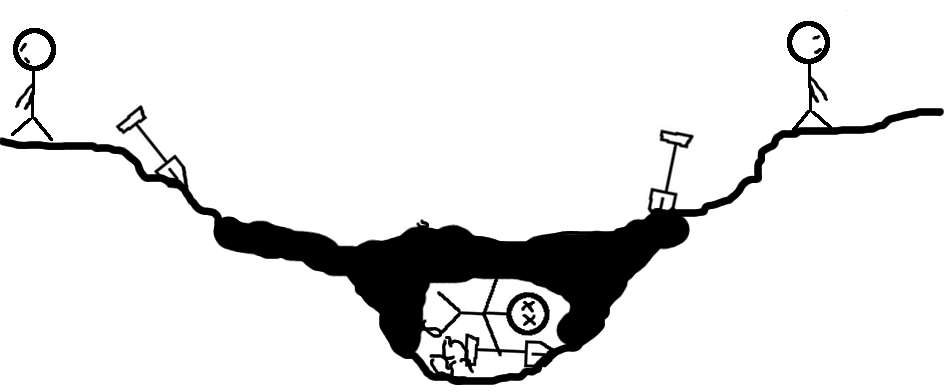
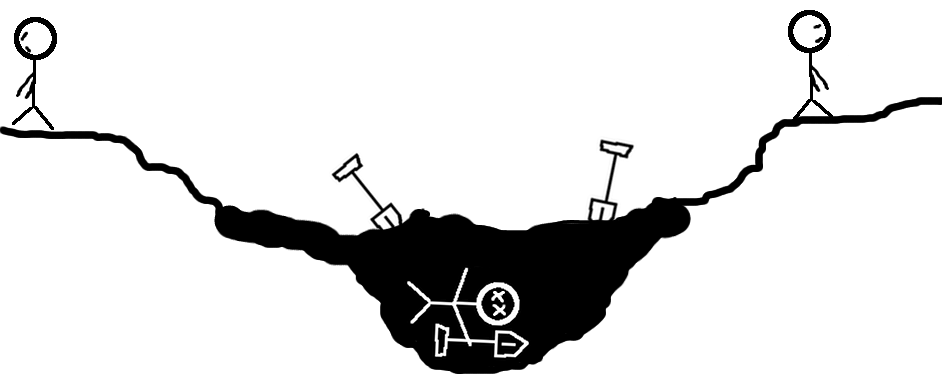
x

diff --git a/post/On-Troll-Hugging-Hole-Digging-and-Improving-Open-Source-Communities.md b/post/On-Troll-Hugging-Hole-Digging-and-Improving-Open-Source-Communities.md
@@ -1,7 +1,6 @@
 %% title: On Troll Hugging, Hole Digging, and Improving Open Source Communities
 %% date: 2017-08-31
 %% desc: How to be better
-%% draft: true
 
 While observing a recent split in a large open source community, I did some self-reflection and thought about the state of the Rakudo community that I am a part of. It involved learning of its huggable past; thinking of its undulating present; as well as looking for its brighter future.
 
@@ -14,9 +13,9 @@ A lot of organizational metaphors involve the act of climbing. You start at the 
 <img class="img-thumbnail img-responsive center-block"
     src="/assets/pics/hug-pics/climbing-stairs.jpg" alt="">
 
-The people higher up can pull others up, but the problem is they can also push them down, prevent them from climbing, or even accidentally kick down some dirt in the face. As we get higher and higher, the tip of the hill we're climbing gets narrower and narrower, accommodating fewer and fewer people, until progress stops and everyone freezes, waiting for someone higher up to disappear and free up the space for someone lower down to move up to.
+The people higher up can pull others up to their level, but the problem is they can also push them down, prevent them from climbing, or even accidentally kick down some dirt in the face. As we get higher and higher, the tip of the hill we're climbing gets narrower and narrower, accommodating fewer and fewer people, until progress stops and everyone freezes, waiting for someone higher up to disappear and free up the space for someone lower down to move up to.
 
-A more useful metaphor I think is directly the opposite of a dirt hill: a dirt hole. People dig it.
+A more useful metaphor I think is directly the opposite of a dirt hill: a dirt *hole.* People dig it.
 
 When you are just starting a project, you're alone. It's just you and a shovel. You dig a few feet down and someone comes to the edge of your hole and looks down on you. You are vulnerable. You offer them a shovel and now there's more than one person digging the hole.
 
@@ -69,9 +68,9 @@ I thought up some Tips for how to improve things; but Tips is too cliché a name
 
 A person comes to the edge of the hole you're digging and says: "What the heck are you doing over there?" You explain a few things, the person nods agreeably, wishes you good luck, and continues on their merry ways. It was an amicable interraction, but could it be better?
 
-Instead of walking away, the person can instead help the hole grow larger, by picking a site on the edge of it and starting to dig their own patch. On occasion, some passerby will realize how awesome your hole digging idea is and join you out of their own initiative, but you can greatly improve the chances of people joining by gifting the curious passerby a shovel and actively asking them to join you. Some won't be able to, but it's a lot easier to start digging if you already have a shovel in hand.
+Instead of walking away, the person can help the hole grow larger, by picking a site on the edge of it and starting to dig their own patch. On occasion, some passerby will realize how awesome your hole digging idea is and join you on their own initiative, but you can greatly improve the chances of people joining by gifting the curious passerby a shovel and actively asking them to help you. Some won't be able to, but it's a lot easier to start digging if you already have a shovel in hand.
 
-If someone on the help channel is asking a question, it's possible your project's learning resources could be improved. And best of all, now that you answered the question, that person is most qualified to improve the learning resources in this situation: they both now know the answer and still remember their thinking processes that led to them asking their question.
+If someone on the help channel is asking a question, it's possible your project's learning resources could be improved. Answer the question and then ask that very same person to help improve the learning resources. Now that you answered the question, that person is most qualified to improve the learning resources in this situation: they both now know the answer and still remember their thinking processes that led to them asking their question and the eventual understanding of the answer.
 
 <img class="img-thumbnail img-responsive center-block"
     src="/assets/pics/hug-pics/gift-a-shovel.png" alt="">
@@ -90,7 +89,7 @@ I recall the most infuriating scene in the film, when the old timer workers came
 
 I was hoping Temple would get back at them: get them fired, insult them, anything really! They're clearly too damn dumb to realize just how much better Temple's equipment is and they shouldn't be allowed anywhere near cattle. Am I right? Not really.
 
-Both Temple and the other workers had the same goal: get the cattle washed, dried, and chopped up into delicious burgers. Without autism, however, the workers didn't have a clue why Temple's design was superior. And lacking that understanding, they went back to what they knew does the job. Temple never got back at the workers, but I've seen others (and myself) get back at the "offenders" in very similar circumstances.
+Both Temple and the other workers had the same goal: get the cattle washed, dried, and chopped up into delicious steaks and burgers. Without autism, however, the workers didn't have a clue why Temple's design was superior. And lacking that understanding, they went back to what they knew does the job. Temple never got back at the workers, but I've seen others (and myself) get back at the "offenders" in very similar circumstances.
 
 When Rakudo implemented atomic operators that incorporate emoji atom symbol, over 220 comments were made about them on Reddit. The overall theme was: *how the hell am I supposed to type that and have Rakudo people lost their minds, using an emoji as an operator?* These comments are from programmers who've been using ASCII symbols in their code for decades. Just like Temple's cattle workers, programmers who never learned how to easily type fancy Unicode characters could, understandably, be baffled that an emoji could ever be efficent to use.
 
@@ -150,7 +149,7 @@ The aforementioned Professor Temple Grandin had another useful contribution to h
 <img class="img-thumbnail img-responsive center-block"
     src="/assets/pics/hug-pics/hugging-machine.jpg" alt="">
 
-It's a therapeutic aid for autistics that, in its crude form, consists of two boards and a lever that brings the boards together, pushing them against a person lying in the middle of the machine. Being touched by other humans is unpleasant, distressing, or even scary when you have autism. The relaxing and pleasant feeling from the pressure of the machine's boards is likely similar to how neurotypical people experience a hug from another human.
+It's a therapeutic aid for autistics that, in its crude form, consists of two boards and a lever that brings the boards together, pushing them against the person lying in the middle of the machine. When you have autism, being touched by other humans is unpleasant, distressing, or even scary. The relaxing and pleasant feeling from the pressure of the machine's boards is likely similar to how neurotypical people experience a hug from another human.
 
 I built my own hugging machine! Now, I'm not good at carpentry, so my machine is entirely digital, but on the bright side, anyone can use it:
 
@@ -165,7 +164,7 @@ There's not much more to say about this. It's simply a hug.
 
 > People are more important than code.
 
-Think back on the last few heated arguments you had with someone. You likely can easily recall *who* you were arguing with. *What* you were arguing about is a lot more foggy. And perhaps you don't remember the other party's *counter-arguments* at all.
+Think back on the last few heated arguments you had with someone. You likely can easily recall *who* you were arguing with. *What* you were arguing about is a lot more foggy. And perhaps you don't remember the other party's *counter-arguments* at all. You remember the person, but the argument faded into the unimportance.
 
 It's easy to get caught up in the moment and defend your position to the death; after all, there are specifications, studies, and all sorts of best practices you could link to. It's easy to overestimate the importance of the thing being argued about in the grand scheme of things. It's also easy to push too far and people will not want to dig the dirt hole with you any more.
 
@@ -192,7 +191,7 @@ Suppose you don't like something I tend to do. You ask me to stop. You grasp for
 <img class="img-thumbnail img-responsive center-block"
     src="/assets/pics/hug-pics/third-option1.png" alt="">
 
-However, there's no *the* "I". Since time parameter is involved, the "I" being reprimanded for offending behaviour is the person in the past. If you're over 30 years old, you can probably easily recall the "you" from a decade or more ago and see that past "you" and the current "you" differ vastly on many ideas. The two "you"s are different people.
+However, there's no *the* "I". Since time parameter is involved, the "I" being reprimanded for offending behaviour is the person in the past. If you're over 30 years old, you can probably easily recall the "you" from a decade or more ago and see that the past "you" and the current "you" differ vastly on many ideas. The two "you"s are different people.
 
 With that in mind, when discussing my offending behaviour, you and the "I" from the present can work on the third "I", the one in the future. Under this paradigm, the discussion looks like this:
 
@@ -207,14 +206,14 @@ The same technique applies to discussions about issues we might disagree about. 
 
 # Conclusion
 
-At the time of this writing, I've been applying the ideas I discussed in this article for about a week. I think these ideas have something real behind them, as I feel a lot happier now than a week ago and I see some positive changes around me that I think I could attribute to these ideas.
+At the time of this writing, I've been applying the ideas I discussed in this article for about a week. I think they have something real behind them, as I feel a lot happier now than a week ago and I see some positive changes around me that I think I could attribute to these ideas.
 
 <img class="img-thumbnail img-responsive center-block"
     src="/assets/pics/hug-pics/conclusion.png" alt="">
 
 I saw new faces appear in our community, who were gifted shovels and invited to join in the hole digging. I no longer dread reading negative comments on our project's articles, as I know I can view the third option in any feedback given, as well as realize the negative feedback might only be a misunderstanding. I no longer get too wrapped up in decisions that barelly affect me.
 
-Working from Audrey's Troll Hugging concept that seeds a positive framework for our community, I think we can expand on it and start hugging everyone.
+Working from Audrey's Troll Hugging concept that seeds a positive framework for our community, I think we can expand on it and start hugging each other, as well as the trolls.
 
 I think we can build something pretty damn good.
 
